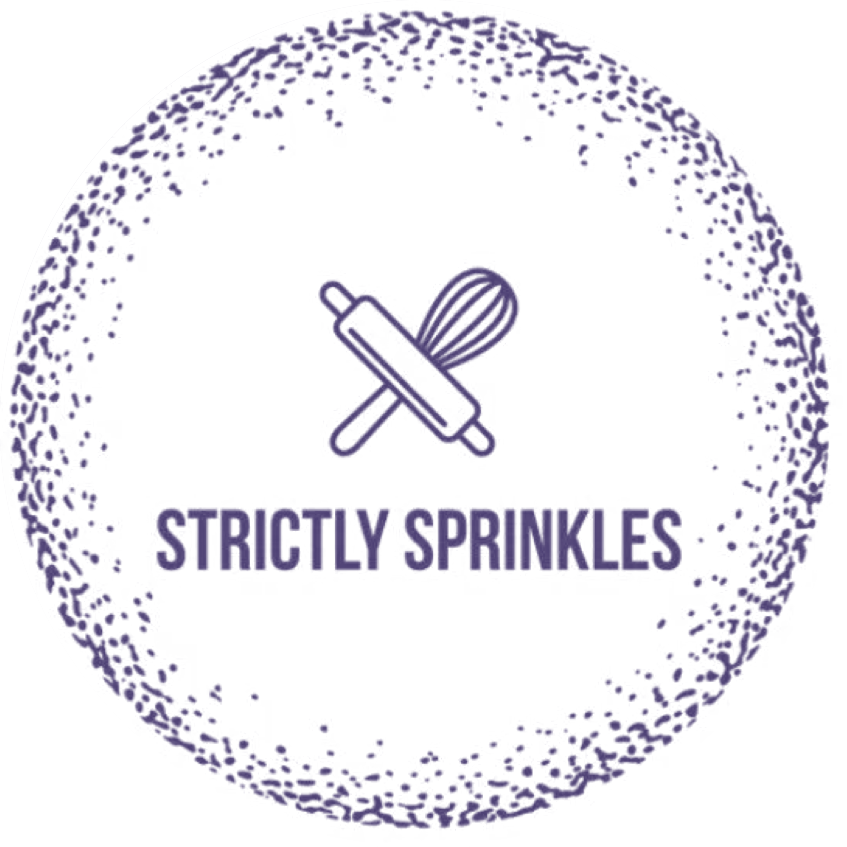
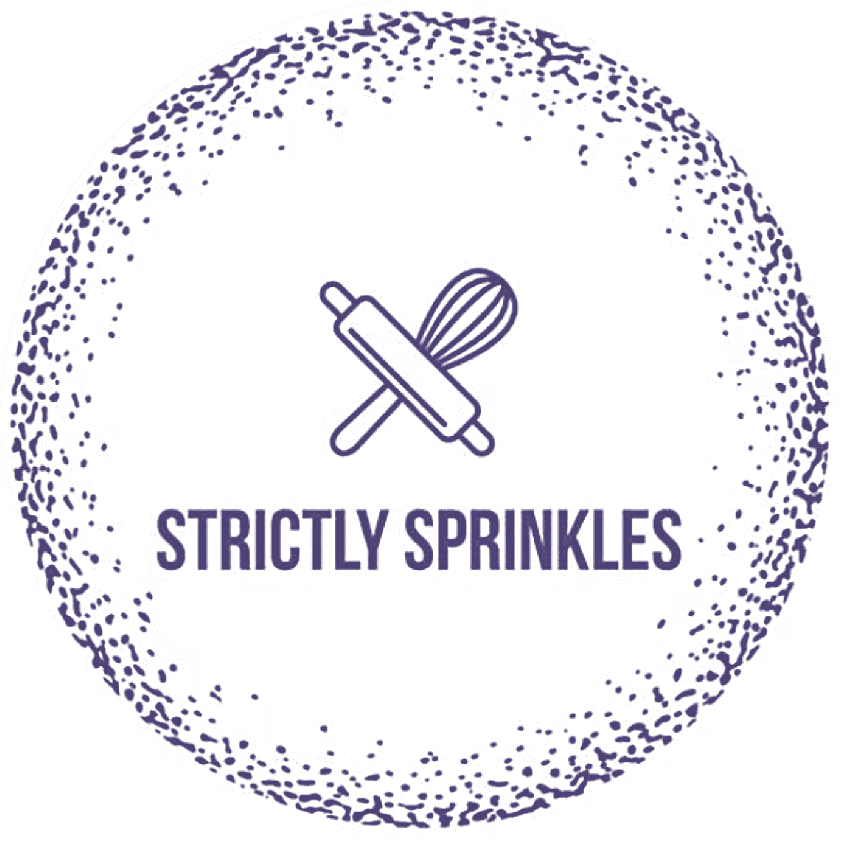
Strictly Sprinkles: seven fixes across the site
The studio Instagram is gone — the card, the handle in the data file and
the test that asserted it. She is not running that account any more.

The "examples only" banner over the reviews is gone. Each placeholder
still says "Example review" where a customer's name goes, so nothing
reads as a real review; the test now checks that instead of the banner.

Her story is rewritten in her own voice. "The orders followed" and
"I'll tell you straight" read like a brochure; it now sounds like she
wrote it.

The footer contacts name the channel — WhatsApp, Email, Instagram —
rather than repeating the number, the address and the handle. Those are
written out in the contact section, which is where somebody looks.

A tap in the drawer no longer scrolls: it moves behind the drawer's own
fade, so the drawer lifts on the section you asked for. html carries
scroll-behavior:smooth as the no-Lenis fallback and that alone was
turning the jump back into a glide, which is why asking Lenis for an
immediate scroll looked like it did nothing.

Section padding is tighter below 700px. Two sections meeting stack both
paddings, so the seam was 186px of nothing on a phone; it is 118px now.

The two logo knockouts are sharpened. The source logo is soft, so the
blur was real; unsharp masking the alpha at r1.8/1.2 recovers the letter
edges and defines the sprinkle dots without turning them to blobs. Both
files got smaller as well.

Claude-Session: https://claude.ai/code/session_012SGwqbJ397RMsSosoEn3zo

diff --git a/templates/strictly-sprinkles.js b/templates/strictly-sprinkles.js
@@ -417,9 +417,6 @@
     sc.appendChild(el("b", null, "5.0"));
     sc.appendChild(stars(5));
     head.appendChild(sc);
-    if (D.reviewsAreExamples) {
-      head.appendChild(el("span", { class: "rv-note" }, "Examples only — her real reviews go here"));
-    }
     var host = $("#rvs");
     D.reviews.forEach(function (r, i) {
       var c = el("article", { class: "rv", "data-rv": "", "data-rv-d": String(i + 1) });
@@ -478,16 +475,17 @@
       host.appendChild(card("mail", "Email", B.email, mailLink("Enquiry from your website", intro)));
       host.appendChild(card("tt", "TikTok", "@" + B.tiktok, TT));
       host.appendChild(card("fb", "Facebook", B.name, FB));
-      host.appendChild(card("ig", "The studio", "@" + B.instagramStudio, "https://instagram.com/" + B.instagramStudio));
     }
 
     var ig = $("#igBtn"); if (ig) ig.href = IG;
     var dw = $("#dockWa"); if (dw) dw.href = waLink(intro);
 
     var fc = $("#footContact");
-    if (fc) [["WhatsApp " + phoneText, waLink(intro)],
-     ["@" + B.instagram, IG],
-     [B.email, mailLink("Enquiry from your website", intro)],
+    /* the channel, not the details — her number and address are written out
+       in the contact section, which is where somebody goes looking for them */
+    if (fc) [["WhatsApp", waLink(intro)],
+     ["Email", mailLink("Enquiry from your website", intro)],
+     ["Instagram", IG],
      ["TikTok", TT], ["Facebook", FB]].forEach(function (p) {
       var li = el("li");
       li.appendChild(el("a", { href: p[1], target: "_blank", rel: "noopener" }, p[0]));
@@ -836,14 +834,33 @@
     if (lenis) lenis.scrollTo(target, { offset: -74, duration: 1.2 });
     else target.scrollIntoView({ behavior: reduced ? "auto" : "smooth", block: "start" });
   }
+  /* A tap in the drawer used to run the same 1.2s scroll, which from the top
+     of the page to the contact section is the whole site going past in a
+     blur. The drawer takes half a second to fade, so the move happens behind
+     it instead: what you see is the drawer lifting on the section you asked
+     for.
+
+     html carries scroll-behavior:smooth as the no-Lenis fallback, and that
+     alone turns this jump back into a glide — it is why asking Lenis for an
+     immediate scroll appeared to do nothing. Off for the assignment, back on
+     the next frame. */
+  function jumpTo(target) {
+    var y = target.getBoundingClientRect().top + (window.scrollY || window.pageYOffset || 0) - 74;
+    var root = document.documentElement, prev = root.style.scrollBehavior;
+    root.style.scrollBehavior = "auto";
+    if (lenis) lenis.scrollTo(y, { immediate: true, force: true });
+    else scrollTo(0, y);
+    requestAnimationFrame(function () { root.style.scrollBehavior = prev; });
+  }
   document.addEventListener("click", function (e) {
     var a = e.target.closest('a[href^="#"]'); if (!a) return;
     var id = a.getAttribute("href");
     if (id === "#" || id.length < 2) return;
     var t = document.querySelector(id); if (!t) return;
+    var fromDrawer = !!a.closest("#menu");
     e.preventDefault();
     closeMenu();
-    goTo(t);
+    if (fromDrawer) jumpTo(t); else goTo(t);
     history.replaceState(null, "", id);
   });
 

diff --git a/templates/strictly-sprinkles-data.js b/templates/strictly-sprinkles-data.js
@@ -27,7 +27,6 @@ window.SS = (function () {
     whatsapp: "447378684907",
     email: "Strictlysprinkles@outlook.com",
     instagram: "strictly_sprinkles",
-    instagramStudio: "studio_bystrictlysprinkles",
     tiktok: "strictlysprinkles",
     facebook: "https://www.facebook.com/share/1NUqhH57mA/",
     /* her TikTok bio says DMs there are not monitored — the site sends
@@ -228,10 +227,10 @@ window.SS = (function () {
 
   /* ---------- reviews ----------
      PLACEHOLDERS. Nothing here is a real customer: they are written as
-     examples so the section can be judged with words in it, and every one
-     is labelled as an example on the page. Replace `reviews` with her real
-     Google reviews and delete `reviewsAreExamples` to drop the label. */
-  var reviewsAreExamples = true;
+     examples so the section can be judged with words in it. Each one still
+     carries "Example review" where a customer's name goes, so nothing here
+     passes itself off as real — replace the whole list with her own Google
+     reviews, names and all, before the site is shown to anybody. */
   var reviews = [
     { name: "Example review", stars: 5, when: "—",
       text: "Ordered a treatbox for my sister's baby shower and it turned out exactly like the picture I sent. Everything tasted as good as it looked." },
@@ -288,6 +287,6 @@ window.SS = (function () {
     platters: platters, individual: individual, treatboxes: treatboxes,
     babyboxes: babyboxes, seasonal: seasonal, flavours: flavours, allergyNote: allergyNote,
     occasions: occasions, terms: terms, cakeCare: cakeCare,
-    reviews: reviews, reviewsAreExamples: reviewsAreExamples, work: work, faq: faq
+    reviews: reviews, work: work, faq: faq
   };
 })();

diff --git a/templates/strictly-sprinkles.html b/templates/strictly-sprinkles.html
@@ -276,14 +276,15 @@
       <p class="kicker" data-rv>The baker</p>
       <h2 class="big" data-rv data-rv-d="1">Hello, I&rsquo;m <em>Hibbah</em></h2>
       <p class="lede" data-rv data-rv-d="2">
-        I&rsquo;m a self-taught baker in Stockton-on-Tees. I started posting what I made six years
-        ago, the orders followed, and I took a gap year before university to give Strictly
+        I&rsquo;m a self-taught baker in Stockton-on-Tees. I started posting my bakes six years ago
+        because I was proud of them, and then people began asking if I&rsquo;d make one for them
+        &mdash; it grew from there. I&rsquo;m taking a gap year before uni so I can give Strictly
         Sprinkles a proper go.
       </p>
       <p class="lede" data-rv data-rv-d="3">
-        Every sponge is baked for your date and every rose is piped by hand &mdash; all halal,
-        nothing bought in. Send me a reference and a date and I&rsquo;ll tell you straight what can
-        be done, what it will cost and when I need to know by.
+        Everything is baked fresh for your date and piped by hand, all halal, nothing bought
+        in. Send me a picture of what you have in mind and the date you need it, and I&rsquo;ll be
+        honest with you about what I can do, what it&rsquo;ll cost and when I&rsquo;d need to know by.
       </p>
       <div class="hero-cta" data-rv data-rv-d="4">
         <a class="btn btn-fill" href="#enquire">Start an enquiry</a>

diff --git a/templates/strictly-sprinkles.css b/templates/strictly-sprinkles.css
@@ -246,6 +246,10 @@ body.menu-on .menu-open{opacity:0;pointer-events:none}
 
 /* ---------- section furniture ---------- */
 .sec{position:relative;padding:clamp(72px,11vh,140px) 0;z-index:1}
+/* Where two sections meet, both paddings stack — so the seam is twice the
+   gap you get inside one, and on a phone that read as a hole between the
+   reviews and the contacts. Tighter below the tablet breakpoint. */
+@media (max-width:700px){.sec{padding:clamp(48px,7vh,74px) 0}}
 .sec-grape{background:var(--grape);color:var(--on-grape)}
 .sec-grape h2,.sec-grape h3{color:var(--cream)}
 .sec-cream{background:var(--paper-2)}
@@ -724,10 +728,6 @@ h2.big em{font-family:var(--display);font-style:italic;font-weight:300;color:var
 .rv-score b{font-family:var(--display);font-size:2.3rem;color:var(--cream);line-height:1}
 .stars{display:inline-flex;gap:2.5px}
 .stars svg{width:17px;height:17px;fill:#f3c14b;flex:none}
-.rv-note{
-  font-family:var(--cond);font-size:.7rem;letter-spacing:.14em;text-transform:uppercase;
-  color:var(--grape);background:var(--cream);padding:6px 12px;border-radius:var(--r);
-}
 .rvs{display:grid;gap:clamp(12px,1.8vw,20px)}
 @media (min-width:820px){.rvs{grid-template-columns:repeat(3,1fr)}}
 .rv{
